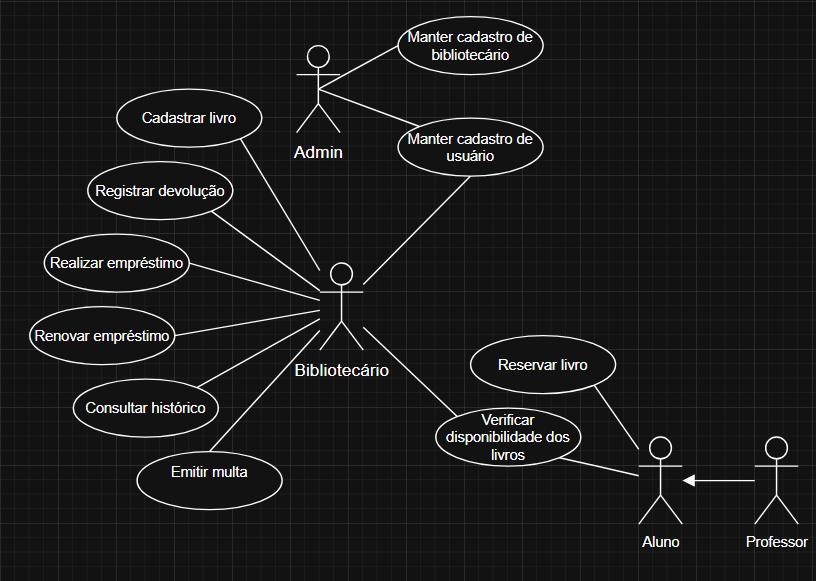
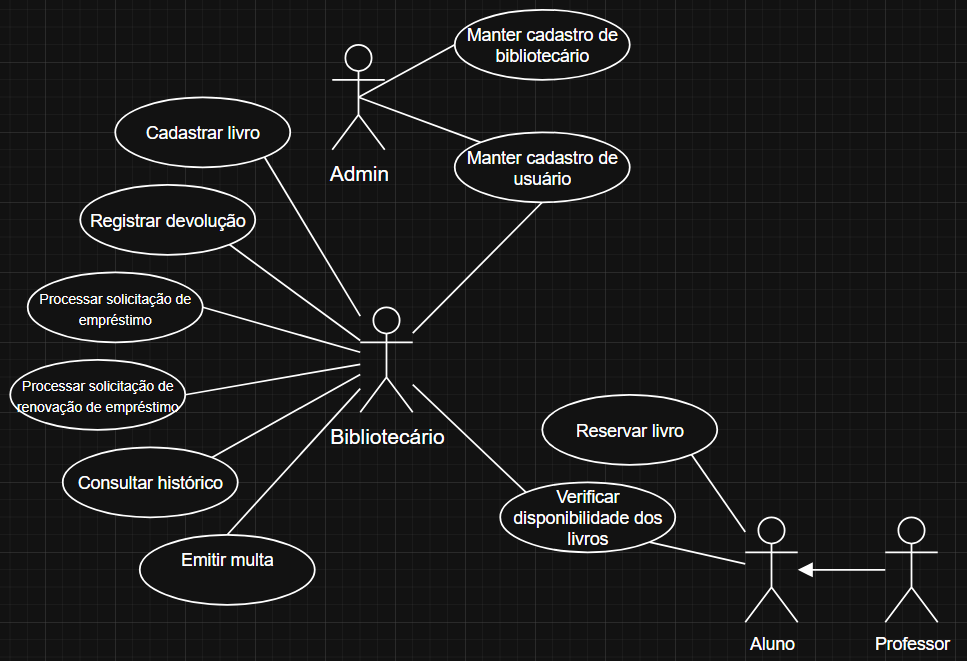
diagramas com. 1-7, d. de classes atualizado, d. de cdu atualizado, fix combobox CRUD

diff --git a/src/templates/manterbibliotecarioUI.py b/src/templates/manterbibliotecarioUI.py
@@ -38,7 +38,7 @@ class ManterBibliotecarioUI:
         if len(biblios) == 0:
             st.write("Nenhum bibliotecário cadastrado")
         else:
-            op = st.selectbox("Bibliotecário", biblios)
+            op = st.selectbox("Bibliotecário a ser excluído", biblios)
             if st.button("Excluir"):
                 View.bibliotecario_excluir.excluir(op)
                 st.success("Bibliotecário excluído")

diff --git a/src/templates/manterusuarioUI.py b/src/templates/manterusuarioUI.py
@@ -63,7 +63,7 @@ class ManterUsuarioUI:
         if len(usuarios) == 0:
             st.write("Nenhum usuário cadastrado")
         else:
-            op = st.selectbox("Usuário", usuarios)
+            op = st.selectbox("Usuário a ser excluido", usuarios)
             if st.button("Excluir"):
                 View.usuario_excluir(op.get_cpf())
                 st.success("Usuário excluído com sucesso")

diff --git a/src/templates/manterautoriaUI.py b/src/templates/manterautoriaUI.py
@@ -51,7 +51,7 @@ class ManterAutoriaUI:
         if len(autorias) == 0:
             st.write("Nenhuma autoria cadastrada")
         else:
-            op = st.selectbox("Selecione a autoria", autorias)
+            op = st.selectbox("Selecione a autoria a ser excluída", autorias)
 
             if st.button("Excluir"):
                 View.autoria_excluir(op.get_id_autor(), op.get_codigo_livro())

diff --git a/src/templates/manteremprestimoUI.py b/src/templates/manteremprestimoUI.py
@@ -79,7 +79,7 @@ class ManterEmprestimoUI:
         if len(emprestimos) == 0:
             st.write("Nenhum empréstimo cadastrado")
         else:
-            op = st.selectbox("Selecione o empréstimo", emprestimos)
+            op = st.selectbox("Selecione o empréstimo a ser excluído", emprestimos)
 
             if st.button("Excluir"):
                 View.emprestimo_excluir(op.get_id())

diff --git a/src/templates/manterautorUI.py b/src/templates/manterautorUI.py
@@ -47,7 +47,7 @@ class ManterAutorUI:
         if len(autores) == 0:
             st.write("Nenhum autor cadastrado")
         else:
-            op = st.selectbox("Autor", autores)
+            op = st.selectbox("Autor a ser excluído", autores)
             if st.button("Excluir"):
                 View.autor_excluir(op.get_id())
                 st.success("Autor excluído com sucesso")

diff --git a/src/templates/manterexemplarUI.py b/src/templates/manterexemplarUI.py
@@ -53,7 +53,7 @@ class ManterExemplarUI:
         if len(exs) == 0:
             st.write("Nenhum exemplar cadastrado")
         else:
-            op = st.selectbox("Exemplar", exs)
+            op = st.selectbox("Exemplar a ser excluído", exs)
             if st.button("Excluir"):
                 View.exemplar_excluir(op.get_id())
                 st.success("Exemplar excluído")

diff --git a/src/templates/manterlivroUI.py b/src/templates/manterlivroUI.py
@@ -68,7 +68,7 @@ class ManterLivroUI:
         if len(livros) == 0:
             st.write("Nenhum livro cadastrado")
         else:
-            op = st.selectbox("Selecione o livro", livros)
+            op = st.selectbox("Selecione o livro para excluir", livros)
 
             if st.button("Excluir"):
                 View.livro_excluir(op.get_codigo())

diff --git a/src/templates/mantermultaUI.py b/src/templates/mantermultaUI.py
@@ -72,7 +72,7 @@ class ManterMultaUI:
         if len(multas) == 0:
             st.write("Nenhuma multa cadastrada")
         else:
-            op = st.selectbox("Selecione a multa", multas)
+            op = st.selectbox("Selecione a multa a ser excluída", multas)
 
             if st.button("Excluir"):
                 View.multa_excluir(op.get_id())

diff --git a/docs/casos-de-uso/casos-de-uso.md b/docs/casos-de-uso/casos-de-uso.md
@@ -20,18 +20,18 @@
 
 - CDU009 - Verificar disponibilidade dos livros (Bibliotecário)
 
-![Diagrama de Casos de Uso](imagens/diagrama-casos-uso.png)
+![Diagrama de Casos de Uso](diagrama_cdu.png)
 
 # Casos de uso detalhados:
 [CDU001 - Cadastrar livro](CDU001/especificacao.md)
 
 [CDU002 - Cadastrar usuário](CDU002/especificacao.md)
 
-[CDU003 - Realizar empréstimo](CDU003/especificacao.md)
+[CDU003 - Processar solicitação de empréstimo](CDU003/especificacao.md)
 
 [CDU004 - Registrar devolução](CDU004/especificacao.md)
 
-[CDU005 - Renovar empréstimo](CDU005/especificacao.md)
+[CDU005 - Processar solicitação de renovação de empréstimo](CDU005/especificacao.md)
 
 [CDU006 - Reservar livro](CDU006/especificacao.md)
 

diff --git a/docs/casos-de-uso/CDU001/especificacao.md b/docs/casos-de-uso/CDU001/especificacao.md
@@ -12,7 +12,7 @@
 
 ## Fluxo principal de eventos:
 **1. [IN]** Bibliotecário acessa a funcionalidade "Cadastrar livros".  
-**2. [OUT]** Sistema exibe um formulário de preenchimento dos dados do livro (título, quantidade de páginas, descrição, gênero, Autor).  
+**2. [OUT]** Sistema exibe um formulário de preenchimento dos dados do livro (nome, autor).  
 **3. [IN]** Bibliotecário preenche os campos com os dados requeridos pelo sistema no formulário.  
 **4. [OUT]** Sistema consulta o banco de dados para verificação dos dados.  
 **5. [OUT]** Sistema registra o livro no acervo.  

diff --git a/docs/casos-de-uso/CDU005/especificacao.md b/docs/casos-de-uso/CDU005/especificacao.md
@@ -1,4 +1,4 @@
-# Caso 5 - Renovar empréstimo
+# Caso 5 - Processar solicitação de renovação de empréstimo
 
 ## Atores envolvidos:
 **Bibliotecário**: Ator primário

diff --git a/docs/casos-de-uso/CDU009/especificacao.md b/docs/casos-de-uso/CDU009/especificacao.md
@@ -1,4 +1,4 @@
-# caso 9 - Verificar disponibilidade dos livros
+# Caso 9 - Verificar disponibilidade dos livros
 
 ## Atores envolvidos:
 **Bibliotecário**: Ator primário
